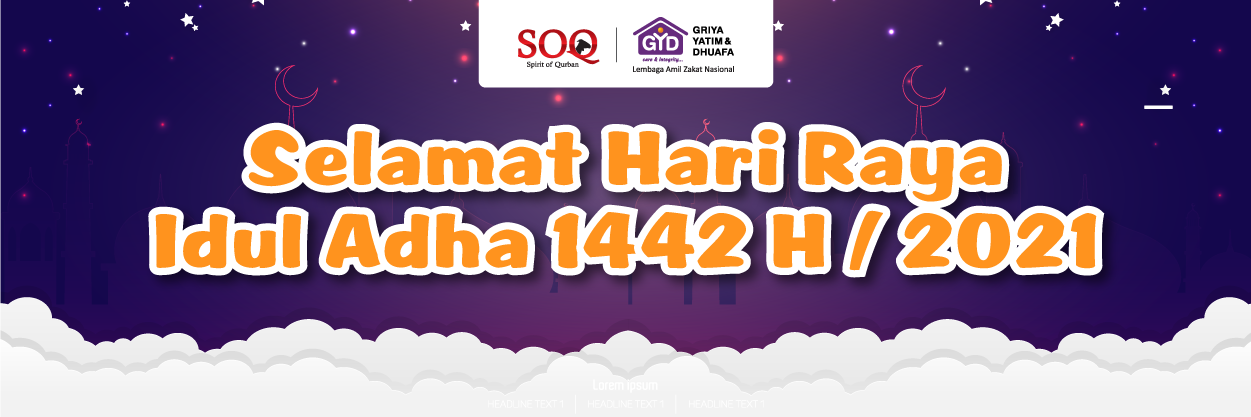
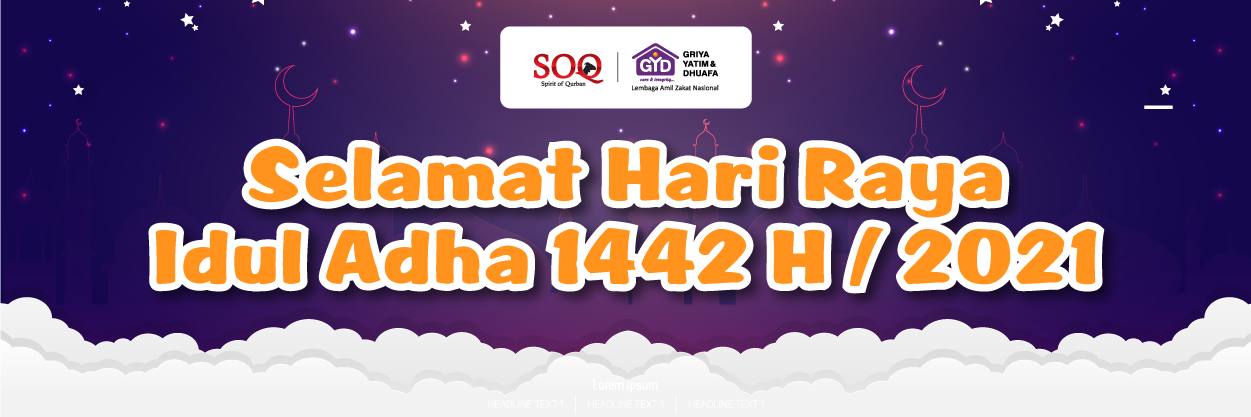
Ubah Gambar Header

Changed region(s): [[0.0935, 0.0, 0.9041, 0.717]]

diff --git a/email-template.html b/email-template.html
@@ -25,18 +25,34 @@
         <table role="presentation" style="width:602px;border-collapse:collapse;border:0px solid #cccccc;border-spacing:0;text-align:center;">
           <tr>
             <!-- <td align="center" style="padding:40px 0 30px 0;background:#70bbd9;"> -->
-              <td align="center" style="padding:40px 0 30px 0;">
-              <img src="./img/GYD---ICON-LANDING-PAGE-EMAIL-HEADER.png" alt="" width="600" style="height:auto;display:block;" />
+              <td align="center" style="padding:10px 0 10px 0;">
+              <img src="https://raw.githubusercontent.com/griyayatim/imgrepo/master/soq2021/header.png" alt="" width="600" style="height:auto;display:block;" />
             </td>
           </tr>
           <tr>
-            <td style="padding:36px 30px 42px 30px;">
+            <td style="padding: 5px 5px 5px 5px;">
               <table role="presentation" style="width:100%;border-collapse:collapse;border:0;border-spacing:0;">
                 <tr>
-                  <td style="padding:0 0 36px 0;color:#153643;">
-                    <h1 style="font-size:24px;margin:0 0 20px 0;font-family:Arial,sans-serif;">Creating Email Magic</h1>
-                    <p style="margin:0 0 12px 0;font-size:16px;line-height:24px;font-family:Arial,sans-serif;">Lorem ipsum dolor sit amet, consectetur adipiscing elit. In tempus adipiscing felis, sit amet blandit ipsum volutpat sed. Morbi porttitor, eget accumsan et dictum, nisi libero ultricies ipsum, posuere neque at erat.</p>
-                    <p style="margin:0;font-size:16px;line-height:24px;font-family:Arial,sans-serif;"><a href="http://www.example.com" style="color:#ee4c50;text-decoration:underline;">In tempus felis blandit</a></p>
+                  <td style="padding:0 0 5px 5px;color:#153643;">
+                    <h1 style="font-size:24px;margin:0 0 10px 0;font-family:Arial,sans-serif;">Spirit Of Qurban | Griya Yatim Dan Dhuafa</h1>
+                    <p style="margin:0 0 12px 0;font-size:16px;line-height:24px;font-family:Arial,sans-serif;">
+                      <b><i>Assalamualaikum Warohmatullahi Wabarokaatuh</i></b><br>
+                      <br>
+                      Bapak/Ibu Hadyan Ahmad yang dimuliakan Allah, di antara amalan terbaik yang manfaatnya langsung dirasakan oleh mereka yang membutuhkan ialah amalan qurban.<br>
+                      <br>
+                      Manfaat qurban bahkan makin terasa saat ini dimana pandemi covid-19 masih belum berakhir hingga kini.<br>
+                      <br>
+                      Qurban adalah wujud peduli kepada sesama. Oleh karenanya, kami mengajak kepada Bapak/Ibu Hadyan Ahmad untuk menebarkan kebaikan qurban kepada yatim dan dhuafa melalui
+                      <a href="https://qurban.griyayatim.com">https://qurban.griyayatim.com</a> <br>
+                      <br>
+                      Kami mendoakan semoga Allah selalu membersamai kehidupan kita sebagaimana kita membersamai anak-anak yatim dan dhuafa, melimpahkan kita keberkahan, dan memberikan kita kesehatan. Aamiin. <br>
+                      <br>
+                      <b><i>Wassalamu’alaikum Warohmatullahi Wabarokaatuh.</i></b> <br>
+                      <br>
+                      Salam hangat,<br>
+                      <br>
+                      <b>Keluarga Besar Griya Yatim & Dhuafa</b>
+                    </p>
                   </td>
                 </tr>
                 <!-- <tr>
@@ -62,30 +78,42 @@
             </td>
           </tr>
           <tr>
-            <td style="padding:30px;background-image: url(./img/GYD---ICON-LANDING-PAGE-EMAIL-FOOTER-2.png);width: 600px;style:height:auto;display:block;">
+            <td style="padding:20px;background-image: url(https://raw.githubusercontent.com/griyayatim/imgrepo/master/soq2021/footer.png);width: 500px;style:height:auto;display:block;">
               <!-- <td style="padding:30px;background:#ee4c50;"> -->
               <!-- <img src="./img/GYD---ICON-LANDING-PAGE-EMAIL-FOOTER.png" alt="" width="600" style="height:auto;display:block;" /> -->
               <table role="presentation" style="width:100%;border-collapse:collapse;border:0;border-spacing:0;font-size:9px;font-family:Arial,sans-serif;">
                 <tr>
                   <td style="padding:0;width:50%;" align="left">
                     <p style="margin:0;font-size:14px;line-height:16px;font-family:Arial,sans-serif;color:#ffffff;">
-                      &reg; Someone, Somewhere 2021<br/><a href="http://www.example.com" style="color:#ffffff;text-decoration:underline;">Unsubscribe</a>
+                      <b>Lembaga Amil Zakat Nasional Griya Yatimm & Dhuafa</b><br/>
+                      <b>SK. Kemenag No. 287 Tahun 2018</b>
+                      <a href="https://berbagi.link/griyayatim" style="color:#ffffff;text-decoration:underline;">https://berbagi.link/griyayatim</a>
+                    </p>
+                    <br>
+                    <p style="margin:0;font-size:14px;line-height:16px;font-family:Arial,sans-serif;color:#ffffff;">
+                      <b>Mari berqurban untuk Yatim dan Dhuafa disini</b><br/>
+                      <a href="https://qurban.griyayatim.com" style="color:#ffffff;text-decoration:underline;">https://qurban.griyayatim.com</a>
                     </p>
                   </td>
-                  <td style="padding:0;width:50%;" align="right">
+                  <td style="padding:0;width:50%;" align="center">
                     <table role="presentation" style="border-collapse:collapse;border:0;border-spacing:0;">
+                      <p style="margin:0;font-size:14px;line-height:16px;font-family:Arial,sans-serif;color:#ffffff;" align="center">
+                        <b>Mari berqurban untuk Yatim dan Dhuafa disini</b><br/>
+                        <a href="https://qurban.griyayatim.com" style="color:#ffffff;text-decoration:underline;">https://qurban.griyayatim.com</a>
+                      </p>
+                      <br>
                       <tr>
                         <td style="padding:0 0 0 10px;width:38px;">
-                          <a href="http://www.twitter.com/" style="color:#ffffff;"><img src="./img/GYD---ICON-LANDING-PAGE-FB.png" alt="Facebook" width="45" style="height:auto;display:block;border:0;" /></a>
+                          <a href="http://www.facebook.com/" style="color:#ffffff;"><img src="https://raw.githubusercontent.com/griyayatim/imgrepo/master/soq2021/facebook.png" alt="Facebook" width="45" style="height:auto;display:block;border:0;" /></a>
                         </td>
                         <td style="padding:0 0 0 10px;width:38px;">
-                          <a href="http://www.facebook.com/" style="color:#ffffff;"><img src="./img/GYD---ICON-LANDING-PAGE-INSTAGRAM.png" alt="Instagram" width="45" style="height:auto;display:block;border:0;" /></a>
+                          <a href="http://www.instagram.com/" style="color:#ffffff;"><img src="https://raw.githubusercontent.com/griyayatim/imgrepo/master/soq2021/instagram.png" alt="Instagram" width="45" style="height:auto;display:block;border:0;" /></a>
                         </td>
                         <td style="padding:0 0 0 10px;width:38px;">
-                          <a href="http://www.facebook.com/" style="color:#ffffff;"><img src="./img/GYD---ICON-LANDING-PAGE-YOUTUBE.png" alt="Youtube" width="45" style="height:auto;display:block;border:0;" /></a>
+                          <a href="http://www.youtube.com/" style="color:#ffffff;"><img src="https://raw.githubusercontent.com/griyayatim/imgrepo/master/soq2021/youtube.png" alt="Youtube" width="45" style="height:auto;display:block;border:0;" /></a>
                         </td>
                         <td style="padding:0 0 0 10px;width:38px;">
-                          <a href="http://www.facebook.com/" style="color:#ffffff;"><img src="./img/GYD---ICON-LANDING-PAGE-WA.png" alt="WhatsApp" width="45" style="height:auto;display:block;border:0;" /></a>
+                          <a href="https://wa.me/6289606090609" style="color:#ffffff;"><img src="https://raw.githubusercontent.com/griyayatim/imgrepo/master/soq2021/whatsapp.png" alt="WhatsApp" width="45" style="height:auto;display:block;border:0;" /></a>
                         </td>
                       </tr>
                     </table>

diff --git a/footer.html b/footer.html
@@ -1,0 +1,78 @@
+<!DOCTYPE html>
+<html lang="en" xmlns="http://www.w3.org/1999/xhtml" xmlns:o="urn:schemas-microsoft-com:office:office">
+<head>
+  <meta charset="UTF-8">
+  <meta name="viewport" content="width=device-width,initial-scale=1">
+  <meta name="x-apple-disable-message-reformatting">
+  <title></title>
+  <!--[if mso]>
+  <noscript>
+    <xml>
+      <o:OfficeDocumentSettings>
+        <o:PixelsPerInch>96</o:PixelsPerInch>
+      </o:OfficeDocumentSettings>
+    </xml>
+  </noscript>
+  <![endif]-->
+  <style>
+    table, td, div, h1, p {font-family: Arial, sans-serif;}
+  </style>
+</head>
+<body style="margin:0;padding:0;">
+  <table role="presentation" style="width:100%;border-collapse:collapse;border:0;border-spacing:0;background:#ffffff;">
+    <tr>
+      <td align="center" style="padding:0;">
+        <table role="presentation" style="width:602px;border-collapse:collapse;border:0px solid #cccccc;border-spacing:0;text-align:center;">
+          
+          <tr>
+            <td style="padding:20px;background-image: url(https://raw.githubusercontent.com/griyayatim/imgrepo/master/soq2021/footer.png);width: 700px;style:height:auto;display:block;">
+              <!-- <td style="padding:30px;background:#ee4c50;"> -->
+              <!-- <img src="./img/GYD---ICON-LANDING-PAGE-EMAIL-FOOTER.png" alt="" width="600" style="height:auto;display:block;" /> -->
+              <table role="presentation" style="width:100%;border-collapse:collapse;border:0;border-spacing:0;font-size:9px;font-family:Arial,sans-serif;">
+                <tr>
+                  <td style="padding:0;width:50%;" align="left">
+                    <p style="margin:0;font-size:14px;line-height:16px;font-family:Arial,sans-serif;color:#ffffff;">
+                      <b>Lembaga Amil Zakat Nasional Griya Yatimm & Dhuafa</b><br/>
+                      <b>SK. Kemenag No. 287 Tahun 2018</b>
+                      <a href="https://berbagi.link/griyayatim" style="color:#ffffff;text-decoration:underline;">https://berbagi.link/griyayatim</a>
+                    </p>
+                    <br>
+                    <p style="margin:0;font-size:14px;line-height:16px;font-family:Arial,sans-serif;color:#ffffff;">
+                      <b>Mari berqurban untuk Yatim dan Dhuafa disini</b><br/>
+                      <a href="https://qurban.griyayatim.com" style="color:#ffffff;text-decoration:underline;">https://qurban.griyayatim.com</a>
+                    </p>
+                  </td>
+                  <td style="padding:0;width:50%;" align="center">
+                    <table role="presentation" style="border-collapse:collapse;border:0;border-spacing:0;">
+                      <p style="margin:0;font-size:14px;line-height:16px;font-family:Arial,sans-serif;color:#ffffff;" align="center">
+                        <b>Mari berqurban untuk Yatim dan Dhuafa disini</b><br/>
+                        <a href="https://qurban.griyayatim.com" style="color:#ffffff;text-decoration:underline;">https://qurban.griyayatim.com</a>
+                      </p>
+                      <br>
+                      <tr>
+                        <td style="padding:0 0 0 10px;width:38px;">
+                          <a href="http://www.facebook.com/" style="color:#ffffff;"><img src="https://raw.githubusercontent.com/griyayatim/imgrepo/master/soq2021/facebook.png" alt="Facebook" width="45" style="height:auto;display:block;border:0;" /></a>
+                        </td>
+                        <td style="padding:0 0 0 10px;width:38px;">
+                          <a href="http://www.instagram.com/" style="color:#ffffff;"><img src="https://raw.githubusercontent.com/griyayatim/imgrepo/master/soq2021/instagram.png" alt="Instagram" width="45" style="height:auto;display:block;border:0;" /></a>
+                        </td>
+                        <td style="padding:0 0 0 10px;width:38px;">
+                          <a href="http://www.youtube.com/" style="color:#ffffff;"><img src="https://raw.githubusercontent.com/griyayatim/imgrepo/master/soq2021/youtube.png" alt="Youtube" width="45" style="height:auto;display:block;border:0;" /></a>
+                        </td>
+                        <td style="padding:0 0 0 10px;width:38px;">
+                          <a href="https://wa.me/6289606090609" style="color:#ffffff;"><img src="https://raw.githubusercontent.com/griyayatim/imgrepo/master/soq2021/whatsapp.png" alt="WhatsApp" width="45" style="height:auto;display:block;border:0;" /></a>
+                        </td>
+                      </tr>
+                    </table>
+                  </td>
+                </tr>
+              </table>
+            </td>
+          </tr>
+        </table>
+      </td>
+    </tr>
+  </table>
+</body>
+</html>
+

diff --git a/index.html b/index.html
@@ -69,10 +69,10 @@
     <nav class="navbar navbar-expand-lg fixed-top bg-transparent">
         <div class="container">
             <a id="warna" class="navbar-brand color-icon" href="qurban.html">
-                <img src="img/GYD---ICON-NAV-LANDING-PAGE-SOQ-GYD-01.png" width="135" alt="logo" class="img-fluid"/>
+                <img src="img/GYD---ICON-NAV-LANDING-PAGE-SOQ-GYD-01.png" width="200" alt="logo" class="img-fluid"/>
             </a>
             <a id="putih" class="navbar-brand d-none white-icon" href="qurban.html">
-                <img src="img/logo-gyd.png" width="100" alt="logo" class="img-fluid"/>
+                <img src="img/GYD---ICON-LANDING-PAGE-SOQ-GYD-PUTIH.png" width="200" alt="logo" class="img-fluid"/>
             </a>
             <!-- <div class="action-btns download-btn me-2">
                 <a href="https://wa.me/6289606090609" class="btn outline-btn">Hubungi Kami Via Whatsapp</a>
